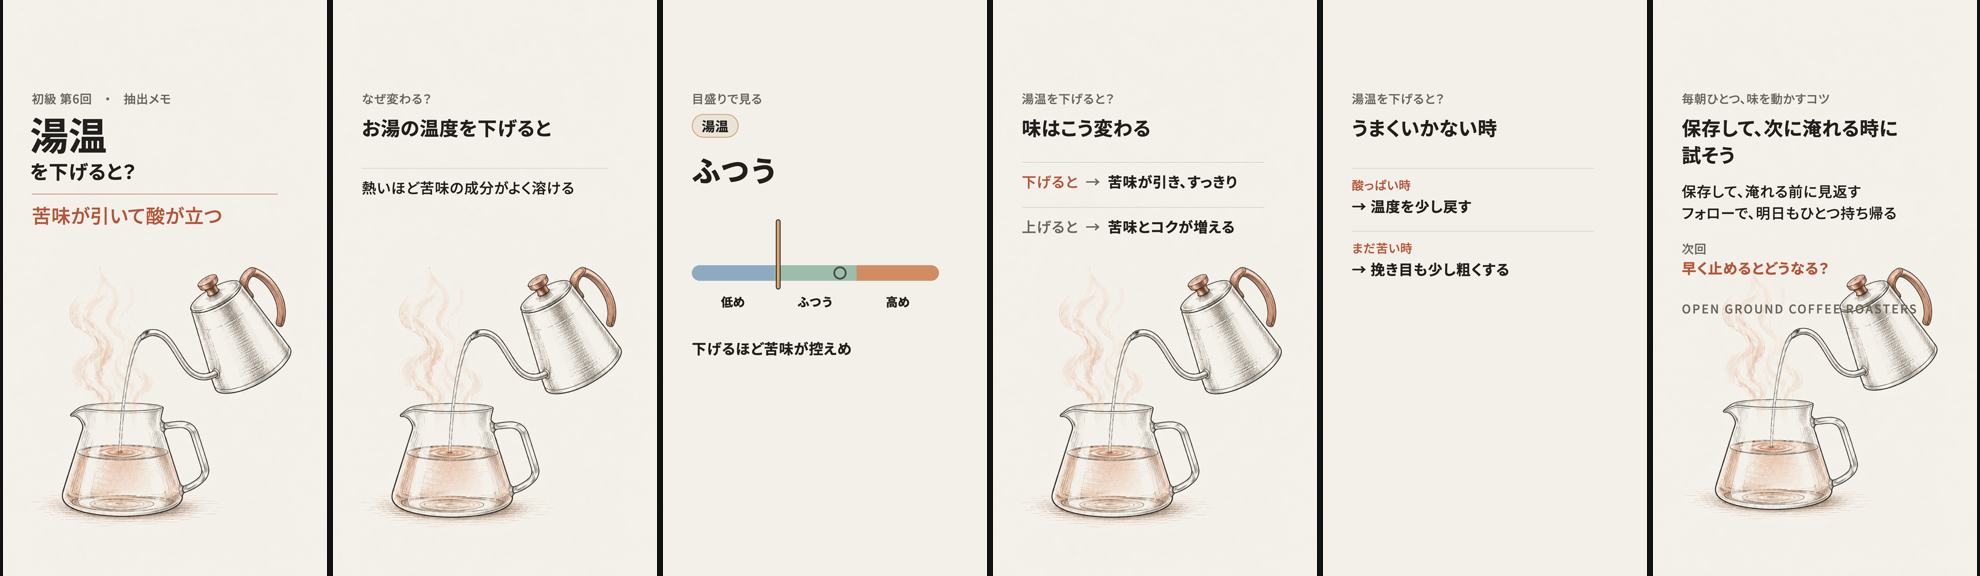
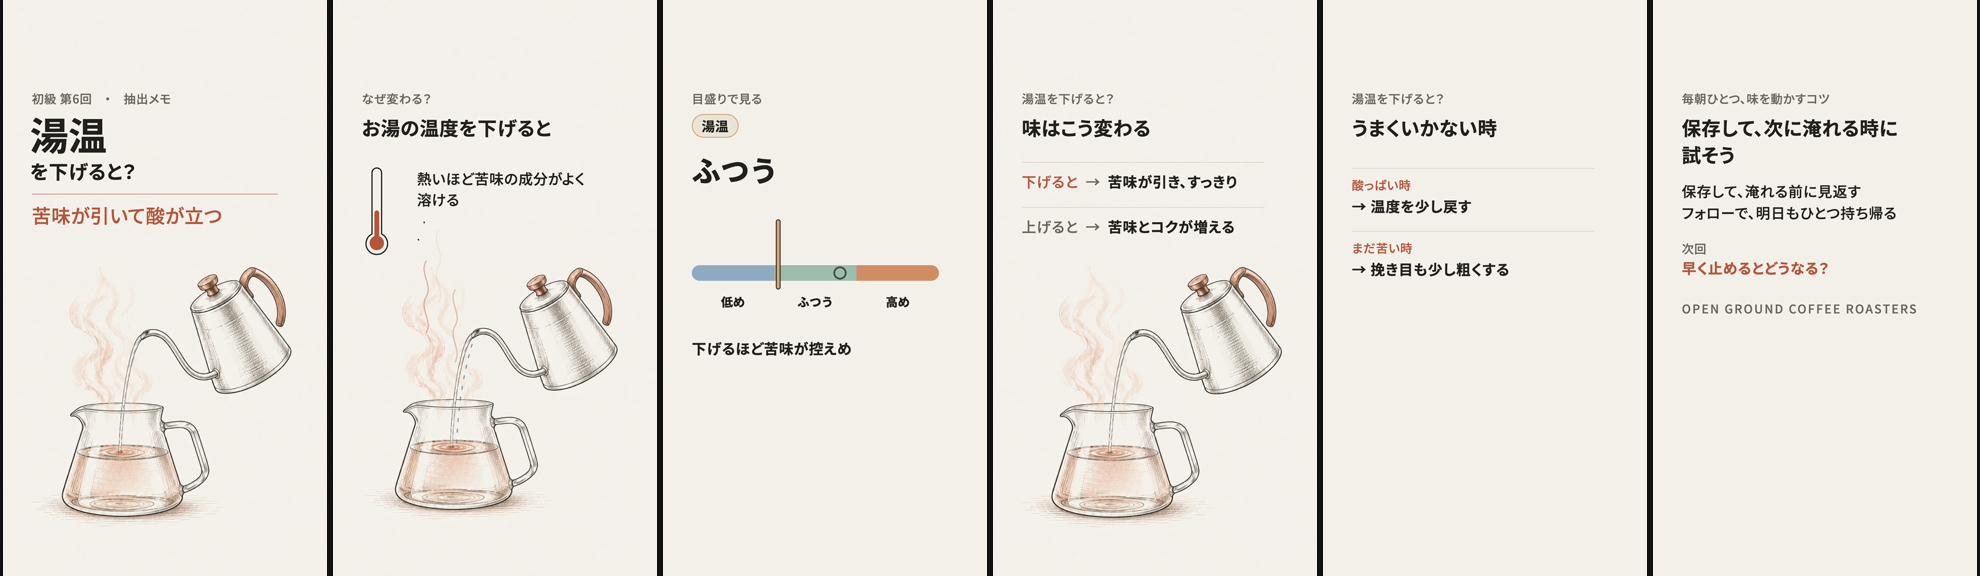
wip(redesign): the why scene moves in production — drawn-on pencil plate / moving photo, reason → taste chain, thermometer for temperature episodes

diff --git a/src/looks/Explain.tsx b/src/looks/Explain.tsx
@@ -50,7 +50,7 @@ interface Ink {
 }
 
 /** A stroke that draws itself between frames a and b. */
-const Draw: React.FC<{ d: string; a: number; b: number; color: string; width?: number; fill?: string }> = ({ d, a, b, color, width = 4, fill = "none" }) => {
+export const Draw: React.FC<{ d: string; a: number; b: number; color: string; width?: number; fill?: string }> = ({ d, a, b, color, width = 4, fill = "none" }) => {
   const p = prog(useCurrentFrame(), a, b, inOut);
   return <path d={d} fill={fill} stroke={color} strokeWidth={width} strokeLinecap="round" strokeLinejoin="round" pathLength={1} strokeDasharray={1} strokeDashoffset={1 - p} />;
 };
@@ -122,7 +122,7 @@ const INK = "#22201C";
 const TERRACOTTA = "#B5563A";
 
 /** Steam wisps: wavy strokes that rise, sway and fade, in a loop. */
-const Steam: React.FC<{ x: number; y: number; color: string; width: number; blur?: number; spread?: number; height?: number }> = ({ x, y, color, width, blur = 0, spread = 70, height = 300 }) => {
+export const Steam: React.FC<{ x: number; y: number; color: string; width: number; blur?: number; spread?: number; height?: number }> = ({ x, y, color, width, blur = 0, spread = 70, height = 300 }) => {
   const f = useCurrentFrame();
   return (
     <svg width={1080} height={1920} style={{ position: "absolute", inset: 0, overflow: "visible" }}>
@@ -147,7 +147,7 @@ const Steam: React.FC<{ x: number; y: number; color: string; width: number; blur
 };
 
 /** Water flowing along the stream: short dashes that travel down the path. */
-const Flow: React.FC<{ d: string; color: string; width: number; dash: string; speed: number; blur?: number }> = ({ d, color, width, dash, speed, blur }) => {
+export const Flow: React.FC<{ d: string; color: string; width: number; dash: string; speed: number; blur?: number }> = ({ d, color, width, dash, speed, blur }) => {
   const f = useCurrentFrame();
   return (
     <svg width={1080} height={1920} style={{ position: "absolute", inset: 0, filter: blur ? `blur(${blur}px)` : undefined }}>
@@ -156,7 +156,7 @@ const Flow: React.FC<{ d: string; color: string; width: number; dash: string; sp
   );
 };
 
-const Ripples: React.FC<{ x: number; y: number; color: string }> = ({ x, y, color }) => {
+export const Ripples: React.FC<{ x: number; y: number; color: string }> = ({ x, y, color }) => {
   const f = useCurrentFrame();
   return (
     <svg width={1080} height={1920} style={{ position: "absolute", inset: 0 }}>
@@ -221,3 +221,80 @@ export const ExplainPhoto: React.FC = () => {
 export const EXPLAIN_FRAMES = 195;
 
 export const ExplainPreview: React.FC<{ look: "lab" | "photo" }> = ({ look }) => (look === "lab" ? <ExplainLab /> : <ExplainPhoto />);
+
+// ---------------------------------------------------------------------------
+// Production: the explanation scene of any episode (src/looks/Looks.tsx *Why)
+// ---------------------------------------------------------------------------
+
+/**
+ * why → (arrow drawing itself) → topic, in the band y 540-960. Temperature
+ * episodes get the thermometer, its mercury moving the way the change goes.
+ */
+export const WhyChain: React.FC<{ why: string; topic: string; ink: Ink; thermo?: "up" | "down" | null }> = ({ why, topic, ink, thermo = null }) => {
+  const f = useCurrentFrame();
+  const left = thermo ? 280 : 96;
+  const [m0, m1] = thermo === "up" ? [0.34, 0.86] : [0.86, 0.34];
+  const mercury = interpolate(f, [20, 70], [m0, m1], { ...clamp, easing: inOut });
+  const tubeTop = 560;
+  const tubeBottom = 780;
+  const mercuryTop = tubeBottom - (tubeBottom - tubeTop) * mercury;
+  const shadow = ink.shadow ? { filter: `drop-shadow(0 2px 6px ${ink.shadow})` } : {};
+  return (
+    <AbsoluteFill style={shadow}>
+      <svg width={1080} height={1920} style={{ position: "absolute", inset: 0 }}>
+        {thermo ? (
+          <>
+            <Draw d={`M130 ${tubeTop + 16} a16 16 0 0 1 32 0 V${tubeBottom} a36 36 0 1 1 -32 0 Z`} a={0} b={26} color={ink.line} width={4} />
+            <rect x={138} y={mercuryTop} width={16} height={tubeBottom - mercuryTop + 20} rx={8} fill={ink.accent} opacity={prog(f, 14, 26)} />
+            <circle cx={146} cy={tubeBottom + 30} r={24} fill={ink.accent} opacity={prog(f, 14, 26)} />
+            <Draw d={thermo === "up" ? "M214 760 V640 M194 664 L214 638 L234 664" : "M214 640 V760 M194 736 L214 762 L234 736"} a={60} b={84} color={ink.accent} width={5} />
+          </>
+        ) : null}
+        {/* the arrow from the reason down to what it does to the taste */}
+        <Draw d={`M${left + 24} 740 V820 M${left + 4} 798 L${left + 24} 822 L${left + 44} 798`} a={56} b={80} color={ink.line} width={4} />
+      </svg>
+      <Fade at={18} style={{ top: 560, left, right: 176, ...text(48, 500, ink.text) }}>
+        {why}
+      </Fade>
+      <Fade at={78} style={{ top: 850, left, right: 120, ...text(64, 700, ink.accent) }}>
+        {topic}
+      </Fade>
+    </AbsoluteFill>
+  );
+};
+
+/** Which way a temperature episode moves (for the thermometer), or null. */
+export function thermoFor(pillar: string, firstLabel: string): "up" | "down" | null {
+  if (pillar !== "temp" && !/温度|湯温/.test(firstLabel)) return null;
+  return /下げ|低|ぬる/.test(firstLabel) ? "down" : "up";
+}
+
+/** lab: the pencil plate uncovered as if drawn (a soft diagonal wipe). */
+export const DrawnPlate: React.FC<{ src: string }> = ({ src }) => {
+  const f = useCurrentFrame();
+  const reveal = interpolate(f, [0, 45], [-30, 130], { ...clamp, easing: inOut });
+  const mask = `linear-gradient(160deg, #000 ${reveal - 25}%, transparent ${reveal}%)`;
+  return (
+    <AbsoluteFill style={{ WebkitMaskImage: mask, maskImage: mask }}>
+      <Img src={staticFile(src)} style={{ width: "100%", height: "100%", objectFit: "cover" }} />
+    </AbsoluteFill>
+  );
+};
+
+/** photo: slow push-in + drift, window light breathing, a scrim for the text. */
+export const MovingPhoto: React.FC<{ src: string; children?: React.ReactNode }> = ({ src, children }) => {
+  const f = useCurrentFrame();
+  const zoom = 1.06 + f * 0.0005;
+  const pan = 10 - f * 0.25;
+  const glow = 0.18 + 0.1 * Math.sin(f / 22);
+  return (
+    <AbsoluteFill style={{ background: "#1C1511", overflow: "hidden" }}>
+      <AbsoluteFill style={{ transform: `translateX(${pan}px) scale(${zoom})`, transformOrigin: "62% 60%" }}>
+        <Img src={staticFile(src)} style={{ width: "100%", height: "100%", objectFit: "cover" }} />
+        {children}
+      </AbsoluteFill>
+      <AbsoluteFill style={{ background: `radial-gradient(circle at 88% 22%, rgba(255,190,120,${glow}) 0%, rgba(255,190,120,0) 55%)`, mixBlendMode: "screen" }} />
+      <AbsoluteFill style={{ background: "linear-gradient(180deg, rgba(20,16,12,0.8) 0%, rgba(20,16,12,0.6) 45%, rgba(20,16,12,0) 62%)" }} />
+    </AbsoluteFill>
+  );
+};

diff --git a/src/looks/Looks.tsx b/src/looks/Looks.tsx
@@ -1,6 +1,7 @@
 import React from "react";
 import { AbsoluteFill, Easing, Img, interpolate, Sequence, staticFile, useCurrentFrame } from "remotion";
 import { FONT_FAMILY, PHRASE_BREAK } from "../cards/theme";
+import { DrawnPlate, Flow, MovingPhoto, Ripples, Steam, thermoFor, WhyChain } from "./Explain";
 
 /**
  * Second round of the 2026-09-26 redesign. The owner rejected the first three
@@ -25,6 +26,7 @@ export type Look = "lab" | "photo" | "still";
 
 export interface LookEpisode {
   id: string;
+  pillar?: string; // curriculum pillar (temp → thermometer in the why scene)
   series: string; // 初級 第6回
   word: string;
   ask: string;
@@ -144,15 +146,19 @@ const LabCover: React.FC<{ ep: LookEpisode }> = ({ ep }) => (
 
 const LabWhy: React.FC<{ ep: LookEpisode }> = ({ ep }) => (
   <AbsoluteFill style={{ background: PAPER }}>
-    <Plate ep={ep} />
+    <DrawnPlate src={`looks/${ep.plate}`} />
+    {ep.plate.endsWith("-kettle.png") ? (
+      <>
+        <Steam x={360} y={1290} color={rgba(ep.accent, 0.55)} width={4} />
+        <Flow d="M478 1102 C 452 1180 418 1300 412 1486" color="rgba(90,120,140,0.75)" width={4} dash="10 26" speed={3.2} />
+        <Ripples x={402} y={1492} color={rgba(ep.accent, 0.7)} />
+      </>
+    ) : null}
     <LabHeader label="なぜ変わる？" />
     <In at={4} style={{ top: 380, left: 96, right: 96, ...type("head", 700, INK) }}>
       {ep.hook}と
     </In>
-    <In at={24} style={{ top: 560, left: 96, width: 820 }}>
-      <div style={{ height: 2, background: RULE, marginBottom: 26 }} />
-      <div style={type("body", 500, INK)}>{ep.why}</div>
-    </In>
+    <WhyChain why={ep.why} topic={ep.topic} thermo={thermoFor(ep.pillar ?? "", ep.effect[0]?.label ?? "")} ink={{ line: INK, text: INK, sub: GREY, accent: ep.accent, glass: PAPER }} />
   </AbsoluteFill>
 );
 
@@ -193,17 +199,27 @@ const PhotoCover: React.FC<{ ep: LookEpisode }> = ({ ep }) => (
 );
 
 const PhotoWhy: React.FC<{ ep: LookEpisode }> = ({ ep }) => (
-  <AbsoluteFill style={{ background: "#2B211B" }}>
-    <Plate ep={ep} dim="linear-gradient(180deg, rgba(20,16,12,0.7) 0%, rgba(20,16,12,0.45) 50%, rgba(20,16,12,0.15) 75%)" />
+  <AbsoluteFill>
+    <MovingPhoto src={`looks/${ep.plate}`}>
+      {ep.plate.endsWith("-kettle.png") ? (
+        <>
+          <Steam x={690} y={1080} color="rgba(255,248,238,0.5)" width={22} blur={9} spread={90} height={380} />
+          <Flow d="M690 1092 C 720 1180 780 1330 868 1680" color="rgba(255,236,200,0.95)" width={3} dash="18 90" speed={6} blur={0.8} />
+        </>
+      ) : null}
+    </MovingPhoto>
     <In at={0} style={{ top: 300, left: 96, ...type("aux", 500, WHITE_SUB) }}>
       なぜ変わる？
     </In>
     <In at={4} style={{ top: 380, left: 96, right: 96, ...type("head", 700, WHITE) }}>
       {ep.hook}と
     </In>
-    <In at={24} style={{ top: 560, left: 96, right: 176, ...type("body", 500, AMBER) }}>
-      {ep.why}
-    </In>
+    <WhyChain
+      why={ep.why}
+      topic={ep.topic}
+      thermo={thermoFor(ep.pillar ?? "", ep.effect[0]?.label ?? "")}
+      ink={{ line: "rgba(255,255,255,0.92)", text: WHITE, sub: WHITE_SUB, accent: AMBER, glass: "rgba(255,255,255,0.08)", shadow: "rgba(0,0,0,0.45)" }}
+    />
   </AbsoluteFill>
 );
 
@@ -281,6 +297,7 @@ export const LOOK_SCENES: Record<Look, { cover: React.FC<{ ep: LookEpisode }>; w
 const PREVIEW_EPISODES: Omit<LookEpisode, "plate">[] = [
   {
     id: "kettle",
+    pillar: "temp",
     series: "初級 第6回",
     word: "湯温",
     ask: "を下げると？",

diff --git a/src/looks/LookVideo.tsx b/src/looks/LookVideo.tsx
@@ -132,7 +132,7 @@ const EndingScene: React.FC<{ look: Look; ep: LookEpisode; ending: CtaEnding }> 
   const t = themeFor(look, ep);
   return (
     <AbsoluteFill>
-      {t.plate(ep)}
+      {look === "photo" ? t.plate(ep) : t.quiet(ep)}
       <At top={300} style={clampType("aux", 500, t.sub)}>
         {ending.lead}
       </At>
@@ -168,6 +168,7 @@ export function lookEpisode(look: Look, slides: CardSlide[]): LookEpisode {
   const tone = toneFor(title.episode, title.pillar);
   return {
     id: title.episode,
+    pillar: title.pillar,
     series: title.series,
     word: title.word,
     ask: title.ask,
